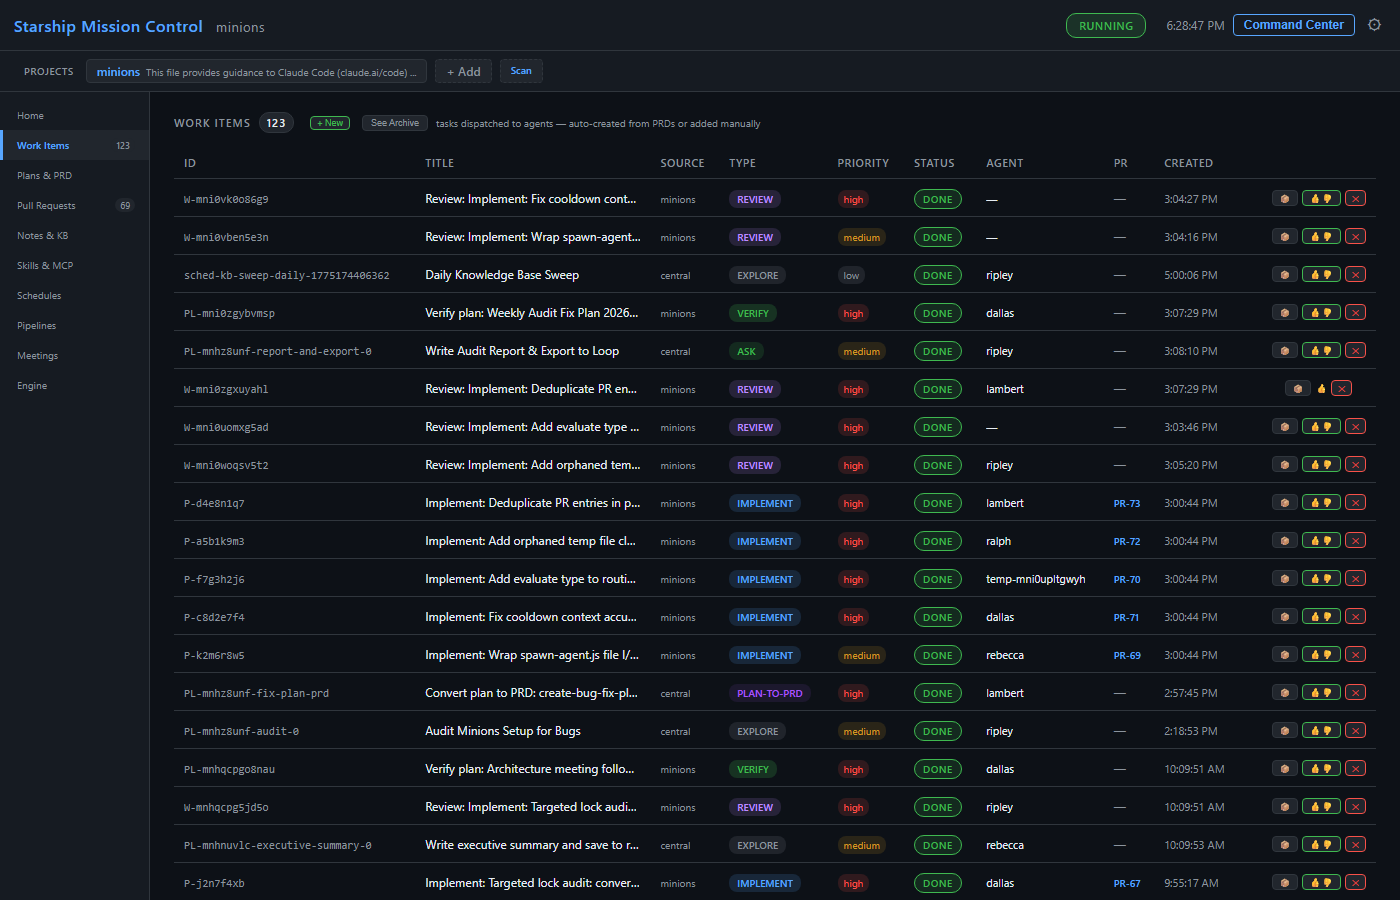
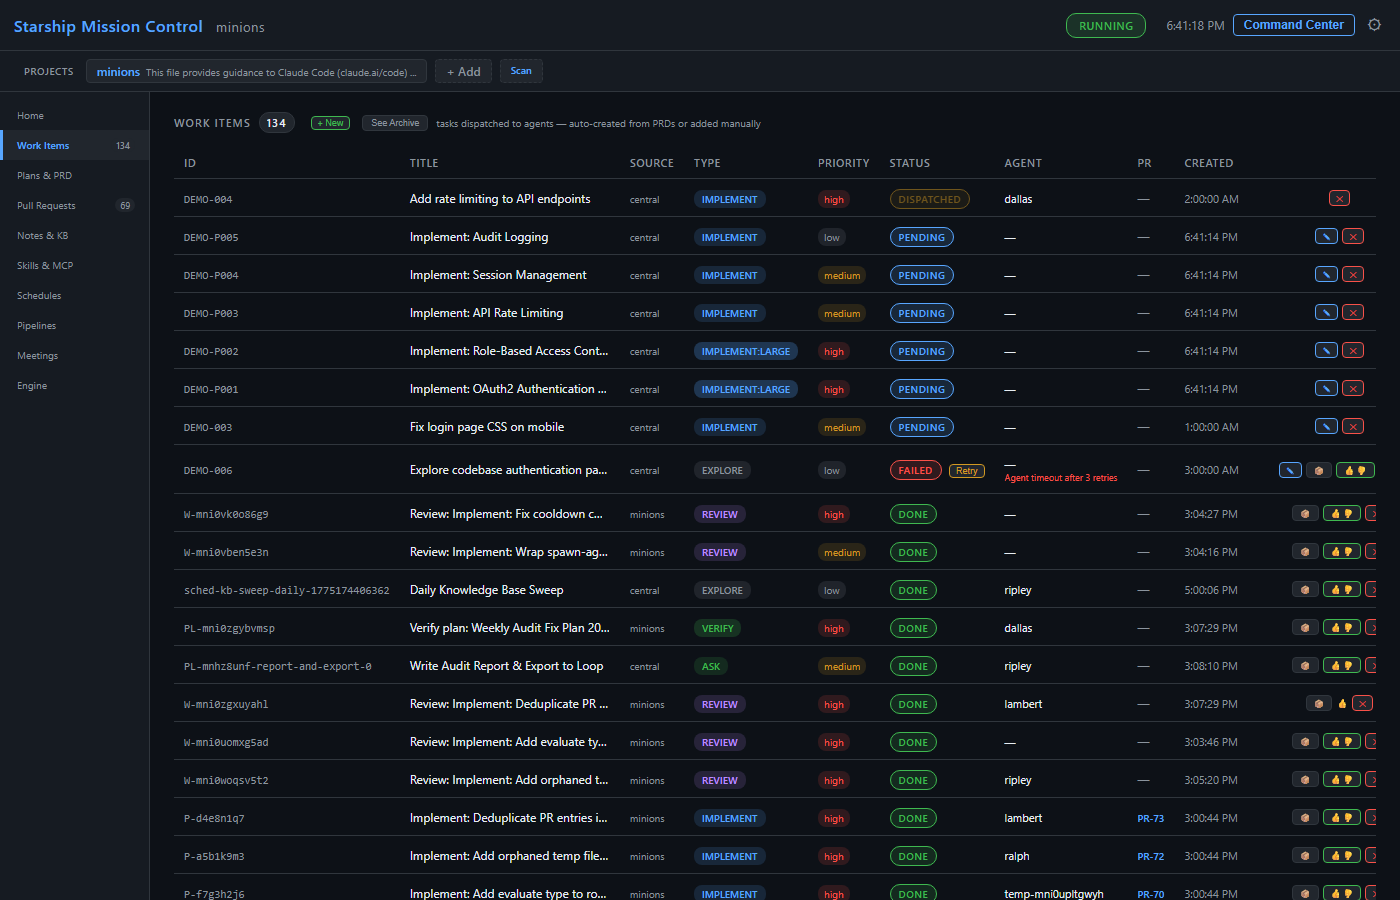
feat: capture-demos seeds mock data for richer screenshots
- Capture script now seeds demo data (PRD with dependency graph, active
  agents, work items in various states, inbox notes) before capturing
- CC screenshot shows mock conversation with plan creation + status check
- PRD screenshot shows approved plan with done/active/pending items
- Auto-cleans demo data after capture
- PRD status changed from awaiting-approval to approved for better demo

diff --git a/docs/capture-demos.js b/docs/capture-demos.js
@@ -1,82 +1,146 @@
 #!/usr/bin/env node
 /**
  * Capture dashboard screenshots for GitHub Pages.
- * Run: npx playwright test docs/capture-demos.js (or node docs/capture-demos.js)
+ * Seeds demo data, captures all pages, then cleans up.
+ *
+ * Run: node docs/capture-demos.js
+ * Requires: dashboard running on :7331, playwright chromium installed
  */
 const { chromium } = require('@playwright/test');
+const { execSync } = require('child_process');
 const path = require('path');
 
 const DEMO_DIR = path.join(__dirname, 'demo');
 const BASE = 'http://localhost:7331';
+const ROOT = path.resolve(__dirname, '..');
 
 async function capture() {
+  // Seed demo data
+  console.log('  Seeding demo data...');
+  execSync(`node "${path.join(ROOT, 'test', 'seed-demo-data.js')}"`, { stdio: 'inherit' });
+
+  // Wait for dashboard to pick up seeded data
+  await new Promise(r => setTimeout(r, 5000));
+
   const browser = await chromium.launch({ headless: true });
   const ctx = await browser.newContext({ viewport: { width: 1400, height: 900 }, colorScheme: 'dark' });
   const page = await ctx.newPage();
 
-  // Wait for dashboard to load
-  await page.goto(BASE, { waitUntil: 'networkidle' });
-  await page.waitForTimeout(2000);
+  try {
+    await page.goto(BASE, { waitUntil: 'networkidle' });
+    await page.waitForTimeout(3000);
 
-  // 1. Home / Overview
-  console.log('  Capturing: home');
-  await page.screenshot({ path: path.join(DEMO_DIR, '01-dashboard-overview.png'), fullPage: false });
+    // 1. Home / Overview (agents should show as working from seeded dispatches)
+    console.log('  Capturing: home');
+    await page.screenshot({ path: path.join(DEMO_DIR, '01-dashboard-overview.png'), fullPage: false });
 
-  // 2. Work Items
-  console.log('  Capturing: work items');
-  await page.click('a[data-page="work"]');
-  await page.waitForTimeout(1500);
-  await page.screenshot({ path: path.join(DEMO_DIR, '02-work-items.png'), fullPage: false });
+    // 2. Work Items
+    console.log('  Capturing: work items');
+    await page.click('a[data-page="work"]');
+    await page.waitForTimeout(2000);
+    await page.screenshot({ path: path.join(DEMO_DIR, '02-work-items.png'), fullPage: false });
 
-  // 3. Plans & PRD
-  console.log('  Capturing: plans & PRD');
-  await page.click('a[data-page="plans"]');
-  await page.waitForTimeout(1500);
-  await page.screenshot({ path: path.join(DEMO_DIR, '03-plans-prd.png'), fullPage: false });
+    // 3. Plans & PRD (seeded PRD with dependency graph)
+    console.log('  Capturing: plans & PRD');
+    await page.click('a[data-page="plans"]');
+    await page.waitForTimeout(2000);
+    await page.screenshot({ path: path.join(DEMO_DIR, '03-plans-prd.png'), fullPage: false });
 
-  // 4. Pull Requests
-  console.log('  Capturing: pull requests');
-  await page.click('a[data-page="prs"]');
-  await page.waitForTimeout(1500);
-  await page.screenshot({ path: path.join(DEMO_DIR, '04-pull-requests.png'), fullPage: false });
+    // 4. Pull Requests
+    console.log('  Capturing: pull requests');
+    await page.click('a[data-page="prs"]');
+    await page.waitForTimeout(1500);
+    await page.screenshot({ path: path.join(DEMO_DIR, '04-pull-requests.png'), fullPage: false });
 
-  // 5. Meetings
-  console.log('  Capturing: meetings');
-  await page.click('a[data-page="meetings"]');
-  await page.waitForTimeout(1500);
-  await page.screenshot({ path: path.join(DEMO_DIR, '05-meetings.png'), fullPage: false });
+    // 5. Meetings
+    console.log('  Capturing: meetings');
+    await page.click('a[data-page="meetings"]');
+    await page.waitForTimeout(1500);
+    await page.screenshot({ path: path.join(DEMO_DIR, '05-meetings.png'), fullPage: false });
 
-  // 6. Pipelines
-  console.log('  Capturing: pipelines');
-  await page.click('a[data-page="pipelines"]');
-  await page.waitForTimeout(1500);
-  await page.screenshot({ path: path.join(DEMO_DIR, '06-pipelines.png'), fullPage: false });
+    // 6. Pipelines
+    console.log('  Capturing: pipelines');
+    await page.click('a[data-page="pipelines"]');
+    await page.waitForTimeout(1500);
+    await page.screenshot({ path: path.join(DEMO_DIR, '06-pipelines.png'), fullPage: false });
 
-  // 7. Notes & KB
-  console.log('  Capturing: notes & KB');
-  await page.click('a[data-page="inbox"]');
-  await page.waitForTimeout(1500);
-  await page.screenshot({ path: path.join(DEMO_DIR, '07-notes-kb.png'), fullPage: false });
+    // 7. Notes & KB
+    console.log('  Capturing: notes & KB');
+    await page.click('a[data-page="inbox"]');
+    await page.waitForTimeout(1500);
+    await page.screenshot({ path: path.join(DEMO_DIR, '07-notes-kb.png'), fullPage: false });
 
-  // 8. Schedules
-  console.log('  Capturing: schedules');
-  await page.click('a[data-page="schedule"]');
-  await page.waitForTimeout(1500);
-  await page.screenshot({ path: path.join(DEMO_DIR, '08-schedules.png'), fullPage: false });
+    // 8. Schedules
+    console.log('  Capturing: schedules');
+    await page.click('a[data-page="schedule"]');
+    await page.waitForTimeout(1500);
+    await page.screenshot({ path: path.join(DEMO_DIR, '08-schedules.png'), fullPage: false });
 
-  // 9. Engine page (dispatch, log, metrics)
-  console.log('  Capturing: engine');
-  await page.click('a[data-page="engine"]');
-  await page.waitForTimeout(1500);
-  await page.screenshot({ path: path.join(DEMO_DIR, '09-engine.png'), fullPage: false });
+    // 9. Engine page (dispatch, log, metrics)
+    console.log('  Capturing: engine');
+    await page.click('a[data-page="engine"]');
+    await page.waitForTimeout(1500);
+    await page.screenshot({ path: path.join(DEMO_DIR, '09-engine.png'), fullPage: false });
 
-  // 10. Command Center
-  console.log('  Capturing: command center');
-  await page.click('#cc-toggle-btn');
-  await page.waitForTimeout(1000);
-  await page.screenshot({ path: path.join(DEMO_DIR, '10-command-center.png'), fullPage: false });
+    // 10. Command Center with mock conversation
+    console.log('  Capturing: command center');
+    await page.click('#cc-toggle-btn');
+    await page.waitForTimeout(500);
 
-  await browser.close();
+    // Inject mock CC messages into the DOM for the screenshot
+    await page.evaluate(() => {
+      const el = document.getElementById('cc-messages');
+      if (!el) return;
+      el.innerHTML = '';
+
+      function addMsg(role, html) {
+        const div = document.createElement('div');
+        div.className = 'cc-msg cc-msg-' + role;
+        div.innerHTML = html;
+        el.appendChild(div);
+      }
+
+      addMsg('user', 'Create a plan to add OAuth2 authentication to OfficeAgent with JWT tokens and role-based access control.');
+
+      addMsg('assistant', '<div class="md-content">' +
+        '<p>I\'ll create a plan for OAuth2 authentication with RBAC. Let me check the current auth setup first.</p>' +
+        '<p>After reviewing the codebase, here\'s what I\'m dispatching:</p>' +
+        '<ul>' +
+        '<li><strong>Plan created:</strong> <code>auth-plan.md</code> with 5 features (OAuth2, RBAC, rate limiting, sessions, audit logging)</li>' +
+        '<li><strong>Dispatched to Lambert</strong> for PRD generation</li>' +
+        '</ul>' +
+        '<p>The plan is now in <strong>Plans &amp; PRD</strong> awaiting your approval. Once approved, Dallas and Rebecca will start implementing in parallel.</p>' +
+        '</div>' +
+        '<div style="margin-top:8px;padding:6px 10px;background:rgba(63,185,80,0.1);border:1px solid rgba(63,185,80,0.2);border-radius:6px;font-size:11px;color:var(--green)">' +
+        '&#x2713; Created plan: auth-plan.md &nbsp; &#x2713; Dispatched: Lambert &rarr; plan-to-prd</div>');
+
+      addMsg('user', 'What\'s the status of the auth implementation?');
+
+      addMsg('assistant', '<div class="md-content">' +
+        '<p>Here\'s the current status:</p>' +
+        '<table style="width:100%;font-size:12px">' +
+        '<tr><td style="color:var(--green)">&#x2713; Done</td><td>OAuth2 Middleware</td><td style="color:var(--muted)">Dallas &mdash; PR-4520 merged</td></tr>' +
+        '<tr><td style="color:var(--green)">&#x2713; Done</td><td>Role-Based Access Control</td><td style="color:var(--muted)">Rebecca &mdash; PR-4521 in review</td></tr>' +
+        '<tr><td style="color:var(--blue)">&#x25CB; Active</td><td>API Rate Limiting</td><td style="color:var(--muted)">Dallas &mdash; working now</td></tr>' +
+        '<tr><td style="color:var(--blue)">&#x25CB; Active</td><td>Session Management</td><td style="color:var(--muted)">Rebecca &mdash; working now</td></tr>' +
+        '<tr><td style="color:var(--muted)">&#x25CB; Pending</td><td>Audit Logging</td><td style="color:var(--muted)">Blocked on RBAC</td></tr>' +
+        '</table>' +
+        '<p><strong>2/5 done, 2 active, 1 pending.</strong> On track for completion today.</p>' +
+        '</div>');
+
+      el.scrollTop = el.scrollHeight;
+    });
+    await page.waitForTimeout(500);
+    await page.screenshot({ path: path.join(DEMO_DIR, '10-command-center.png'), fullPage: false });
+
+  } finally {
+    await browser.close();
+
+    // Clean up demo data
+    console.log('  Cleaning demo data...');
+    execSync(`node "${path.join(ROOT, 'test', 'seed-demo-data.js')}" --clean`, { stdio: 'inherit' });
+  }
+
   console.log('\n  Done! Screenshots saved to docs/demo/');
 }
 

diff --git a/test/seed-demo-data.js b/test/seed-demo-data.js
@@ -123,8 +123,8 @@ safeWrite(path.join(prdDir, 'demo-auth-prd.json'), {
   generated_by: 'Lambert',
   generated_at: '2026-03-18',
   source_plan: 'demo-auth-plan.md',
-  status: 'awaiting-approval',
-  requires_approval: true,
+  status: 'approved',
+  requires_approval: false,
   branch_strategy: 'parallel',
   missing_features: [
     { id: 'DEMO-P001', name: 'OAuth2 Authentication Middleware', description: 'JWT-based auth with refresh tokens using passport.js', priority: 'high', estimated_complexity: 'large', status: 'done', acceptance_criteria: ['JWT tokens issued on login', 'Refresh token rotation', 'Token blacklisting on logout'], depends_on: [] },
